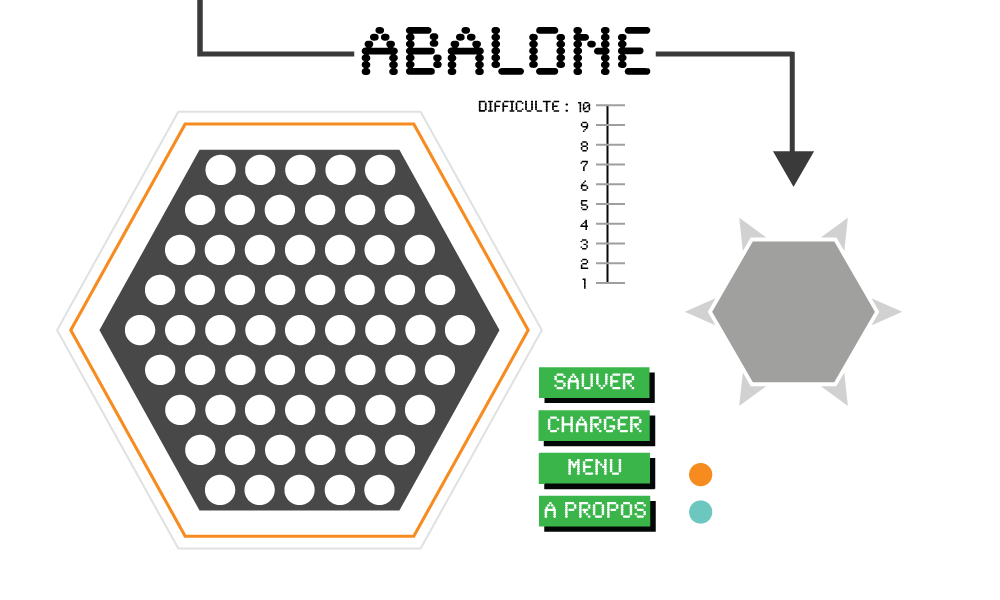
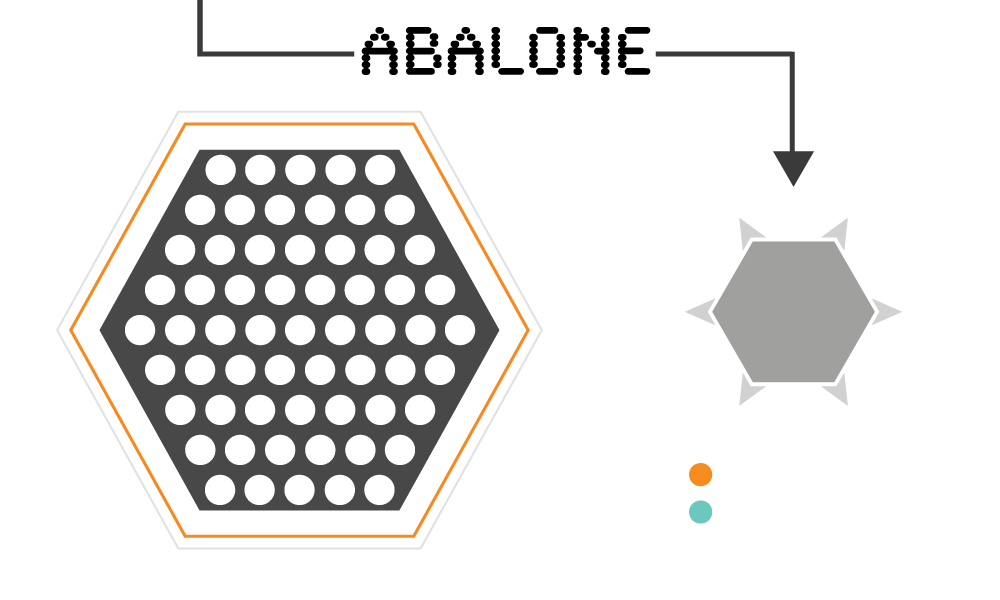
ajustement des affichages en fonction de l'IA

Changed region(s): [[0.527, 0.6, 0.682, 0.9], [0.558, 0.24, 0.62, 0.48], [0.465, 0.15, 0.62, 0.21]]

diff --git a/src/vue/PanneauAbalone.java b/src/vue/PanneauAbalone.java
@@ -18,7 +18,7 @@ import java.util.Scanner;
 public class PanneauAbalone extends JPanel {
 
     JSlider slideDif = new JSlider(JSlider.VERTICAL, 1, 10, 1);
-    int difficulty = 1;
+    private int difficulty = 1;
     JFrame frame = new JFrame();
     private int marbleLeftBlack = 14;
     private int marbleLeftWhite = 14;
@@ -27,6 +27,7 @@ public class PanneauAbalone extends JPanel {
     private int initParam=1;
     private int confirmValidation=0;
     private int confirmDirection=0;
+    private boolean AI;
     private JLabel scoreB = new JLabel("restants : "+marbleLeftBlack);
     private JLabel scoreW = new JLabel("restants : "+marbleLeftWhite);
     private JLabel validButtonDown = new JLabel(new ImageIcon("Images/ValidDown.png"));
@@ -57,11 +58,6 @@ public class PanneauAbalone extends JPanel {
             scoreB.setFont(new Font("Synchro LET", Font.BOLD, 20));
             scoreW.setFont(new Font("Synchro LET", Font.BOLD, 20));
             
-            /*
-            scoreB.setForeground(new Color(0xE97628));
-            scoreW.setForeground(new Color(0x5ABEB1));
-			*/
-            
             scoreB.setBounds(730, 450, 170, 50);
             scoreW.setBounds(730, 487, 170, 50);
             add(scoreB);
@@ -70,8 +66,10 @@ public class PanneauAbalone extends JPanel {
             validButtonDown.setBounds(530, 140, 170, 50);
             validButtonUp.setBounds(530, 140, 170, 50);
 
-            slideDif.setBounds(600,90,50,208);
-            add(slideDif);
+            if(AI){
+	            slideDif.setBounds(600,90,50,208);
+	            add(slideDif);
+            }
 
             //police
             try {
@@ -86,19 +84,34 @@ public class PanneauAbalone extends JPanel {
         }
 
         //Affiche le fond
-        try {
-            if(boardView.player == Config.Color.BLACK) {
-                Image img = ImageIO.read(new File("Images/AbaFondTourPBLACK.png"));
-                g.drawImage(img, 0, 0, this);
-            }
-            else{
-                Image img = ImageIO.read(new File("Images/AbaFondTourPWHITE.png"));
-                g.drawImage(img, 0, 0, this);
-            }
-        } catch (IOException e) {
-            e.printStackTrace();
+        if(AI){
+	        try {
+	            if(boardView.player == Config.Color.BLACK) {
+	                Image img = ImageIO.read(new File("Images/AbaFondTourPBLACKAI.png"));
+	                g.drawImage(img, 0, 0, this);
+	            }
+	            else{
+	                Image img = ImageIO.read(new File("Images/AbaFondTourPWHITEAI.png"));
+	                g.drawImage(img, 0, 0, this);
+	            }
+	        } catch (IOException e) {
+	            e.printStackTrace();
+	        }
         }
-
+        else{
+        	try {
+	            if(boardView.player == Config.Color.BLACK) {
+	                Image img = ImageIO.read(new File("Images/AbaFondTourPBLACK.png"));
+	                g.drawImage(img, 0, 0, this);
+	            }
+	            else{
+	                Image img = ImageIO.read(new File("Images/AbaFondTourPWHITE.png"));
+	                g.drawImage(img, 0, 0, this);
+	            }
+	        } catch (IOException e) {
+	            e.printStackTrace();
+	        }
+        }
         //Mets à jour le pad directionnel
         if(verifMoveTabDirections(Config.Direction.UPRIGHT)){
             try {
@@ -524,6 +537,10 @@ public class PanneauAbalone extends JPanel {
                 board.getPseudos().add(temp);
             }
         }
+    }
+    
+    public void setAI(boolean AI){
+    	this.AI = AI;
     }
     public void save(String playerName, int nbPlayers, int playerRound, Board board)
     {

diff --git a/src/vue/PanneauDC.java b/src/vue/PanneauDC.java
@@ -20,7 +20,8 @@ import java.util.Set;
 public class PanneauDC extends JPanel{
 
 	JSlider slideDif = new JSlider(JSlider.VERTICAL, 1, 10, 1);
-	int difficulty = 1;
+	private int difficulty = 1;
+	private boolean AI = false;
 	private BoardDC boardView = new BoardDC();
 	private ArrayList<Coords> listTargets = new ArrayList<Coords>();
 	private int tabTargets[][] = new int[19][27];
@@ -36,12 +37,14 @@ public class PanneauDC extends JPanel{
 	
 	public void paintComponent(Graphics g) {
 
-        if(initParam==1){
+        if(initParam==1 && AI){
             slideDif.setBounds(600,140,50,208);
             add(slideDif);
         }
-		
-		addImage(g, "Images/dames/Board.png", 0, 0, this);
+		if(AI)
+			addImage(g, "Images/dames/BoardAI.png", 0, 0, this);
+		else
+			addImage(g, "Images/dames/Board.png", 0, 0, this);
 		 
         int widthOffset = 0;
         int heightOffset = 152;
@@ -148,8 +151,8 @@ public class PanneauDC extends JPanel{
 				}
 			}
 		}
-
-        this.difficulty=slideDif.getValue();
+		if(AI)
+			this.difficulty=slideDif.getValue();
         repaint();
     }
     
@@ -233,13 +236,10 @@ public class PanneauDC extends JPanel{
     	}
     	
     }
-    	/*
-    	joueur1 = new JLabel("Joueur");
-    	setLayout(null);
-    	joueur1.setBounds(730, 250, 1000, 600);
-    	joueur1.setFont(new Font("Synchro LET", Font.BOLD, 20));
-    	add(joueur1);
-    	*/
+   
+    public void setAI(boolean AI){
+    	this.AI = AI;
+    }
 
     public void affichePlateau()
 	{

diff --git a/src/controleur/ControlerDC.java b/src/controleur/ControlerDC.java
@@ -17,16 +17,16 @@ public class ControlerDC {
 	PanneauDC pan;
     boolean moveOk = false;
 
-    public ControlerDC(JFrame parent, String playerName, int nbPlayers, int nbColors, boolean IA) {
+    public ControlerDC(JFrame parent, String playerName, int nbPlayers, int nbColors, boolean AI) {
 		this.parent = parent;
 		pan = new PanneauDC();
+		pan.setAI(AI);
 		pan.setVisible(true);
 		parent.getContentPane().add(pan);
 		
 		boardDC = new BoardDC();
 		boardDC.setPseudo(playerName);
-		
-		boardDC.setCurrentPlayer(playerName); // changez cette valeur pour changer le joueur qui joue
+		boardDC.setCurrentPlayer(playerName);
         boardDC.initPlayers(nbColors, nbPlayers);
         boardDC.initBoard();
         for (int i = 0; i < boardDC.getColors().size(); i++)
@@ -36,7 +36,7 @@ public class ControlerDC {
 
 		pan.affichePlateau();
 		pan.displayPlayers(nbPlayers, boardDC.getPseudos(), boardDC.getColors());
-        if (IA) {
+        if (AI) {
             //executeIA();
         }
         parent.addMouseListener(new MouseAdapter() {
@@ -59,7 +59,7 @@ public class ControlerDC {
                 }
                 if (switcher != 0) {
                     boardDC.switchPlayer();
-                    if (IA) ;
+                    if (AI) ;
                     //executeIA();
                 }
             }

diff --git a/src/controleur/ControlerAbalone.java b/src/controleur/ControlerAbalone.java
@@ -17,11 +17,12 @@ public class ControlerAbalone{
 	PanneauAbalone pan;
 	boolean moveOk = false;
 
-    public ControlerAbalone(JFrame parent, String playerName, boolean IA, String mode) {
+    public ControlerAbalone(JFrame parent, String playerName, boolean AI, String mode) {
         this.parent = parent;
 		pan = new PanneauAbalone();
         pan.setName(playerName);
 
+       	pan.setAI(AI);
 		pan.setVisible(true);
 
 		parent.getContentPane().add(pan);
@@ -39,7 +40,7 @@ public class ControlerAbalone{
         parent.getContentPane().add(pan);
 
 
-		clickFunction(IA);
+		clickFunction(AI);
 	}
 	
 	public void clickFunction(boolean IA){
